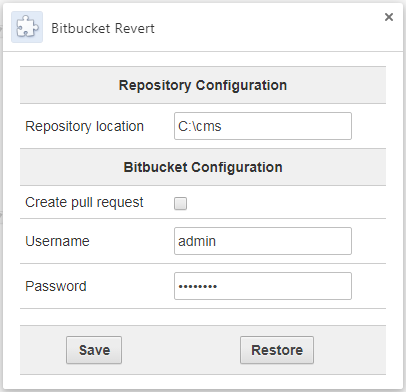
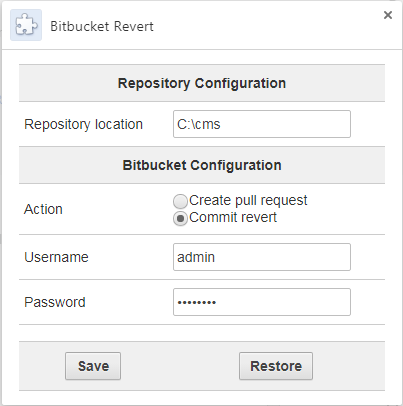
Added option to commit revert withour pull request

diff --git a/Bitbucket Revert/revert.js b/Bitbucket Revert/revert.js
@@ -15,29 +15,40 @@ var SLASH = "/";
 var PROJECTS = "/projects/";
 var REPOS = "/repos/";
 
-var scr = "cd \"DIR\"\r\ngit fetch origin\r\ngit checkout -b REV_BRANCH origin/master\r\ngit revert -m 1 COMMIT\r\ngit push origin REV_BRANCH";
+var branch = "cd \"DIR\"\r\ngit fetch origin\r\ngit checkout -b REV_BRANCH origin/master\r\ngit revert -m 1 COMMIT\r\ngit push origin REV_BRANCH";
+var merge = "cd \"DIR\"\r\ngit checkout master\r\ngit revert -m 1 COMMIT\r\ngit push origin master";
 var json  = '{"""title""":"""STORY""","""description""":"""STORY""","""state""":"""OPEN""","""open""":true,"""closed""":false,"""fromRef""":{"""id""":"""refs/heads/REV_BRANCH""","""repository""":{"""slug""":"""SLG""","""name""":null,"""project""":{"""key""":"""PRJ"""}}},"""toRef""":{"""id""":"""refs/heads/master""","""repository""":{"""slug""":"""SLG""","""name""":null,"""project""":{"""key""":"""PRJ"""}}},"""locked""":false,"""links""":{"""self""":[null]}}';
-var curl = "curl -H \"Content-Type: application/json\" -X POST -u USER:PASSWORD -d \""+json+"\" REPO/rest/api/1.0/projects/PRJ/repos/SLG/pull-requests";
+var curl = "\r\ncurl -H \"Content-Type: application/json\" -X POST -u USER:PASSWORD -d \""+json+"\" REPO/rest/api/1.0/projects/PRJ/repos/SLG/pull-requests";
 
 var saveScript = function(config){
-	chrome.storage.sync.get(["dir", "usr", "pr", "pwd"],function(storage){
+	chrome.storage.sync.get(["dir", "usr", "action", "pwd"],function(storage){
 		var dir = storage.dir;
 		if(!dir){
 			alert("Please verify and save plugin configuration");
 			return;
 		}
-		var pr = storage.pr;
+		var action = storage.action;
 		var usr = storage.usr;
 		var pwd = storage.pwd;
 		
 		var revert_branch = config.branch+"_rev";
 		
-		var script = scr.replace(/DIR/g,dir).replace(/REV_BRANCH/g, revert_branch).replace(/COMMIT/g, config.sha);
-		if(pr){
-			if(usr && usr.length>0 && pwd && pwd.length>0){
-				script = addPullRequest(script, config, revert_branch, storage);
-			}else{
-				alert("Bitbucket username or password is missing, pull request will not be created");
+		var script = "";
+		if(action){
+			switch(action){
+				case 1:{
+					script = branch.replace(/DIR/g, dir).replace(/REV_BRANCH/g, revert_branch).replace(/COMMIT/g, config.sha)
+					if(usr && pwd){
+						script = addPullRequest(script, config, revert_branch, storage);
+					}else{
+						alert("Bitbucket username or password is missing, pull request will not be created");
+					}
+					break;
+				}
+				case 2:{
+					script = merge.replace(/DIR/g, dir).replace(/REV_BRANCH/g, revert_branch).replace(/COMMIT/g, config.sha);
+					break;
+				}
 			}
 		}
 		script+="\r\nset /p END=Hit ENTER to continue...";
@@ -46,19 +57,17 @@ var saveScript = function(config){
 }
 
 var addPullRequest = function(script, config, revert_branch, usr, pwd){
-	var story = "Revert " + config.branch + "from commit " + config.sha;
-	script+="\r\n"+curl.replace(/STORY/g,story).replace(/REV_BRANCH/g,revert_branch)
+	var story = "Revert " + config.branch + " from commit " + config.sha;
+	script+=curl.replace(/STORY/g,story).replace(/REV_BRANCH/g,revert_branch)
 		.replace(/USER/g, usr).replace(/PASSWORD/g, pwd).replace(/REPO/g, config.repository)
 		.replace(/PRJ/g, config.project).replace(/SLG/g, config.repo);
 	return script;
 }
 
-
 var saveFile = function(content, branch){
 	var blob = new Blob([content], {type: "application/bat;charset=utf-8"});
 	saveAs(blob, "revert_"+branch+".bat");
 }
-
 
 chrome.browserAction.onClicked.addListener( 
 	function(tab) {

diff --git a/Bitbucket Revert/options.js b/Bitbucket Revert/options.js
@@ -11,45 +11,53 @@
 
 //Default configuration
 var dir = "C:\\cms";
-var pr = false;
+var action = 1;
 var usr = "admin";
 var pwd = "password";
 
 function save_options() {
   var dir = document.getElementById('dir').value;
   var usr = document.getElementById('usr').value;
-  var pr = document.getElementById('pr').checked;
-  var pwd = document.getElementById('pwd').value;
-  
-  chrome.storage.sync.set({'dir':dir, 'pr':pr, 'usr':usr, 'pwd':pwd}, function() {
+  var pwd = document.getElementById('pwd').value; 
+  var action = getAction();
+ 
+  chrome.storage.sync.set({'dir':dir, 'action':action, 'usr':usr, 'pwd':pwd}, function() {
     var status = document.getElementById('status');
     status.textContent = 'Options saved.';
     setTimeout(function() {status.textContent = '';}, 750);
   });
 }
 
+var getAction = function(){
+	if(document.getElementById('pr').checked){
+		return 1;
+	}else{
+		return 2;
+	}
+}
+
 function restore_options() {
-  chrome.storage.sync.set({'dir':dir, 'pr':pr, 'usr':usr, 'pwd':pwd}, function() {
+  chrome.storage.sync.set({'dir':dir, 'action':action, 'usr':usr, 'pwd':pwd}, function() {
 	document.getElementById('dir').value = dir;
-	document.getElementById('pr').checked = pr;
 	document.getElementById('usr').value = usr;
 	document.getElementById('pwd').value = pwd;
+	document.getElementById('pr').checked = action == 1;
+	document.getElementById('commit').checked = action == 2;
 	
     var status = document.getElementById('status');
     status.textContent = 'Options restored.';
-    setTimeout(function() {
-      status.textContent = '';
-    }, 750);
+    setTimeout(function() {status.textContent = '';}, 750);
   });
 }
 
 
 function reset_options() {
-  chrome.storage.sync.get({dir:dir, pr:pr, usr:usr, pwd:pwd}, function(items) {
+  chrome.storage.sync.get({dir:dir, action:action, usr:usr, pwd:pwd}, function(items) {
     document.getElementById('dir').value = items.dir;
-	document.getElementById('pr').checked = items.pr;
 	document.getElementById('usr').value = items.usr;
 	document.getElementById('pwd').value = items.pwd;
+	document.getElementById('pr').checked = items.action == 1;
+	document.getElementById('commit').checked = items.action == 2;
   });
 }
 

diff --git a/Bitbucket Revert/options.html b/Bitbucket Revert/options.html
@@ -22,8 +22,11 @@
     <th class="tg-e3zv" colspan="2">Bitbucket Configuration</th>
   </tr>
   <tr>
-    <td class="tg-yw4l">Create pull request</td>
-    <td class="tg-yw4l"><input type="checkbox" id="pr"></td>
+    <td class="tg-yw4l">Action</td>
+    <td class="tg-yw4l">
+		<input type="radio" name="action" id="pr">Create pull request</input><br/>
+		<input type="radio" name="action" id="commit">Commit revert</input><br/>
+	</td>
   </tr>
   <tr>
     <td class="tg-yw4l">Username</td>

diff --git a/README.md b/README.md
@@ -36,6 +36,8 @@ Bitbucket Revert is a chrome extension for Bitbucket pull request merge revert s
 
 ##### Sample bat file:
 
+###### Pull request option:
+
 ```sh
 cd "C:\cms"
 git fetch origin
@@ -43,6 +45,16 @@ git checkout -b feature/US1234_rev origin/master
 git revert -m 1 01234567890
 git push origin feature/US1234_rev
 curl -H "Content-Type: application/json" -X POST -u admin:password -d "{"""title""":"""Revert feature/US1234""","""description""":"""Revert feature/US1234""","""state""":"""OPEN""","""open""":true,"""closed""":false,"""fromRef""":{"""id""":"""refs/heads/feature/US1234_rev""","""repository""":{"""slug""":"""cms""","""name""":null,"""project""":{"""key""":"""CMS"""}}},"""toRef""":{"""id""":"""refs/heads/master""","""repository""":{"""slug""":"""cms""","""name""":null,"""project""":{"""key""":"""CMS"""}}},"""locked""":false,"""links""":{"""self""":[null]}}" https://git.sbr.com/rest/api/1.0/projects/CMS/repos/cms/pull-requests
+set /p END=Hit ENTER to continue...
+```
+
+###### Commit revert option
+
+```sh
+cd "C:\cms"
+git checkout master
+git revert -m 1 01234567890
+git push origin master
 set /p END=Hit ENTER to continue...
 ```
 
